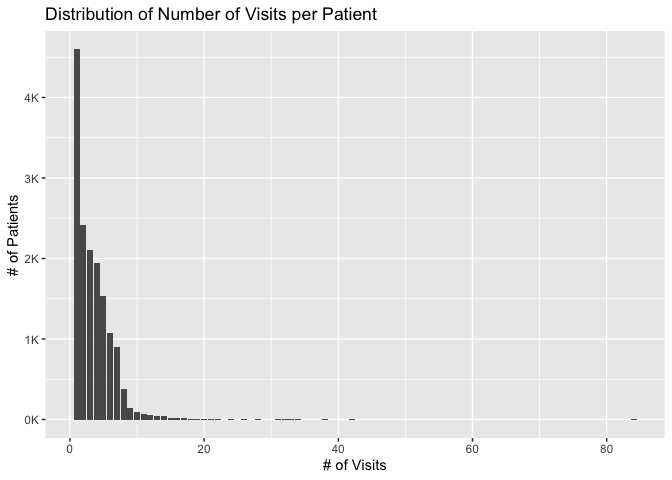
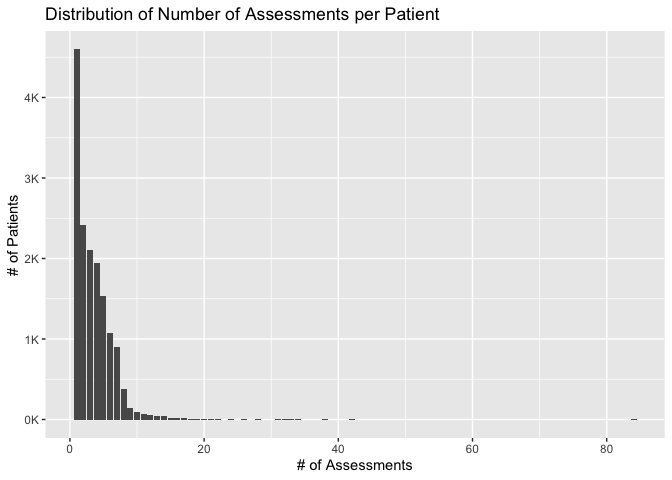
updated part1 and part2 complete

Changed region(s): [[0.3438, 0.0, 0.6562, 0.0625], [0.4375, 0.9375, 0.625, 1.0]]

diff --git a/part1.md b/part1.md
@@ -1,7 +1,7 @@
 NeuroFlow Data Challenge
 ================
 Ty Painter
-Thu May 20 12:20:39 2021
+Thu May 20 20:01:15 2021
 
 ``` r
 # load packages
@@ -147,17 +147,17 @@ phq_all_final <- phq_all_final %>%
   mutate(visit_num = visit_num)
 ```
 
-### Raw Count of Visits per Patient
+### Raw Count of Assessments per Patient
 
 ``` r
 phq_all_final %>% 
   group_by(patient_id) %>% 
-  summarize(total_visits = max(visit_num)) %>% 
-  ggplot(aes(total_visits)) +
+  summarize(total_assessments = max(visit_num)) %>% 
+  ggplot(aes(total_assessments)) +
   geom_histogram(stat="count") +
     labs(
-    title = "Distribution of Number of Visits per Patient",
-    x = "# of Visits",
+    title = "Distribution of Number of Assessments per Patient",
+    x = "# of Assessments",
     y = "# of Patients"
   ) +
   scale_y_continuous(labels = function(y){paste0(y/1000, 'K')}) 
@@ -167,17 +167,17 @@ phq_all_final %>%
 
 ![](part1_files/figure-gfm/unnamed-chunk-8-1.png)<!-- -->
 
-### Proportions of Visits per Patient
+### Proportions of Assessments per Patient
 
 ``` r
 phq_all_final %>% 
   group_by(patient_id) %>% 
-  summarize(total_visits = max(visit_num)) %>% 
-  ggplot(aes(x = total_visits)) +  
+  summarize(total_assessments = max(visit_num)) %>% 
+  ggplot(aes(x = total_assessments)) +  
   geom_bar(aes(y = (..count..)/sum(..count..))) +
   labs(
-    title = "Proportion of Visits per Patients",
-    x = "# of Visits",
+    title = "Proportion of Assessments per Patients",
+    x = "# of Assessments",
     y = "% of Patients"
   ) +
   scale_y_continuous(labels = function(y){paste0(y*100, '%')}) 
@@ -185,7 +185,7 @@ phq_all_final %>%
 
 ![](part1_files/figure-gfm/unnamed-chunk-9-1.png)<!-- -->
 
-### Average GAD7 Scores per Number of Patient Visits
+### Average GAD7 Scores per Number of Patient Assessments
 
 ``` r
 phq_all_final %>% 
@@ -203,14 +203,14 @@ phq_all_final %>%
   geom_hline(yintercept=16, linetype="dashed", col="red") +
   geom_text(aes(5,16,label="Severe", vjust=-3)) +
   labs(
-    title = "Average GAD7 Scores per Number of Patient Visits",
-    x = "# of Visits",
+    title = "Average GAD7 Scores per Number of Patient Assessments",
+    x = "# of Assessments",
     y = "GAD7 Score")
 ```
 
 ![](part1_files/figure-gfm/unnamed-chunk-10-1.png)<!-- -->
 
-### Median GAD7 Score per Number of Patient Visits
+### Median GAD7 Score per Number of Patient Assessments
 
 ``` r
 phq_all_final %>% 
@@ -228,8 +228,8 @@ phq_all_final %>%
   geom_hline(yintercept=16, linetype="dashed", col="red") +
   geom_text(aes(5,16,label="Severe", vjust=-3)) +
   labs(
-    title = "Median GAD7 Scores per Number of Patient Visits",
-    x = "# of Visits",
+    title = "Median GAD7 Scores per Number of Patient Assessments",
+    x = "# of Assessments",
     y = "GAD7 Score")
 ```
 
@@ -239,24 +239,52 @@ phq_all_final %>%
 
 **What insights can you draw?**
 
-The main insight I drew from my analysis is the patient
-visits/assessments seem to be working because 90% of patients are making
-only 7 visits or less and both the median and average GAD7 scores are in
-the Low to Minimal risk range. However, there seems to be a sharp
-increase in GAD7 scores around 40 visits. This is logical since a higher
-GAD7 score would require more visits which skews the graph, but it seems
-that once a patients goes over 40 visits diminishing returns start to
-begin.
+It seems that 3-6 assessments tend to result in the lowest CAD7 scores
+which is good since 88% of patients participate in 6 assessments or
+less. However, there is cause for concern where 34% of patients took an
+initial assessment and scored 10 or greater but did not take another
+assessment although a score of 10+ indicates further evaluation.
 
 ``` r
-total_visits <- phq_all_final %>% 
+total_assessments <- phq_all_final %>% 
   group_by(patient_id) %>% 
-  summarize(total_visits = max(visit_num)) 
-quantile(total_visits$total_visits, .9)
+  summarize(total_assessments = max(visit_num)) 
+quantile(total_assessments$total_assessments, .88)
 ```
 
-    ## 90% 
-    ##   7
+    ## 88% 
+    ##   6
+
+``` r
+phq_all_final <- left_join(phq_all_final, total_assessments, by = "patient_id") 
+
+no_return <- phq_all_final %>% 
+  filter(total_assessments == 1 & score >= 10) %>% 
+  nrow()
+
+return <- phq_all_final %>% 
+  filter(visit_num == 1 & score >= 10) %>% 
+  nrow()
+
+no_return / return
+```
+
+    ## [1] 0.3419453
+
+There seems to be a sharp increase in GAD7 scores once a patient
+surpasses assessments in the mid 30s. This is logical since a higher
+GAD7 score would require more assessments, but it seems that once a
+patients passes 35 assessments diminishing returns start to begin. One
+thing to note about this analysis is that on 8 out of 15,502 patients
+had over 30 assessments which heavily skews the graph.
+
+``` r
+total_assessments %>% 
+  filter(total_assessments > 30) %>% 
+  nrow()
+```
+
+    ## [1] 8
 
 **What assumptions have you made about the data?**
 
@@ -270,7 +298,7 @@ to collect?**
 
 Additional pieces of information I wish I had was the type of diagnosis
 or treatment that each patient was associated with. I think this would
-allow for a better evaluation based on the diagnosis/treatment. Another
+allow for a better analysis based on the diagnosis/treatment. Another
 piece of information I would like to look at would be the patient
 responses to each specific question of the GAD7. Again, I think this
 could provide further insight into particular questions that relate to
